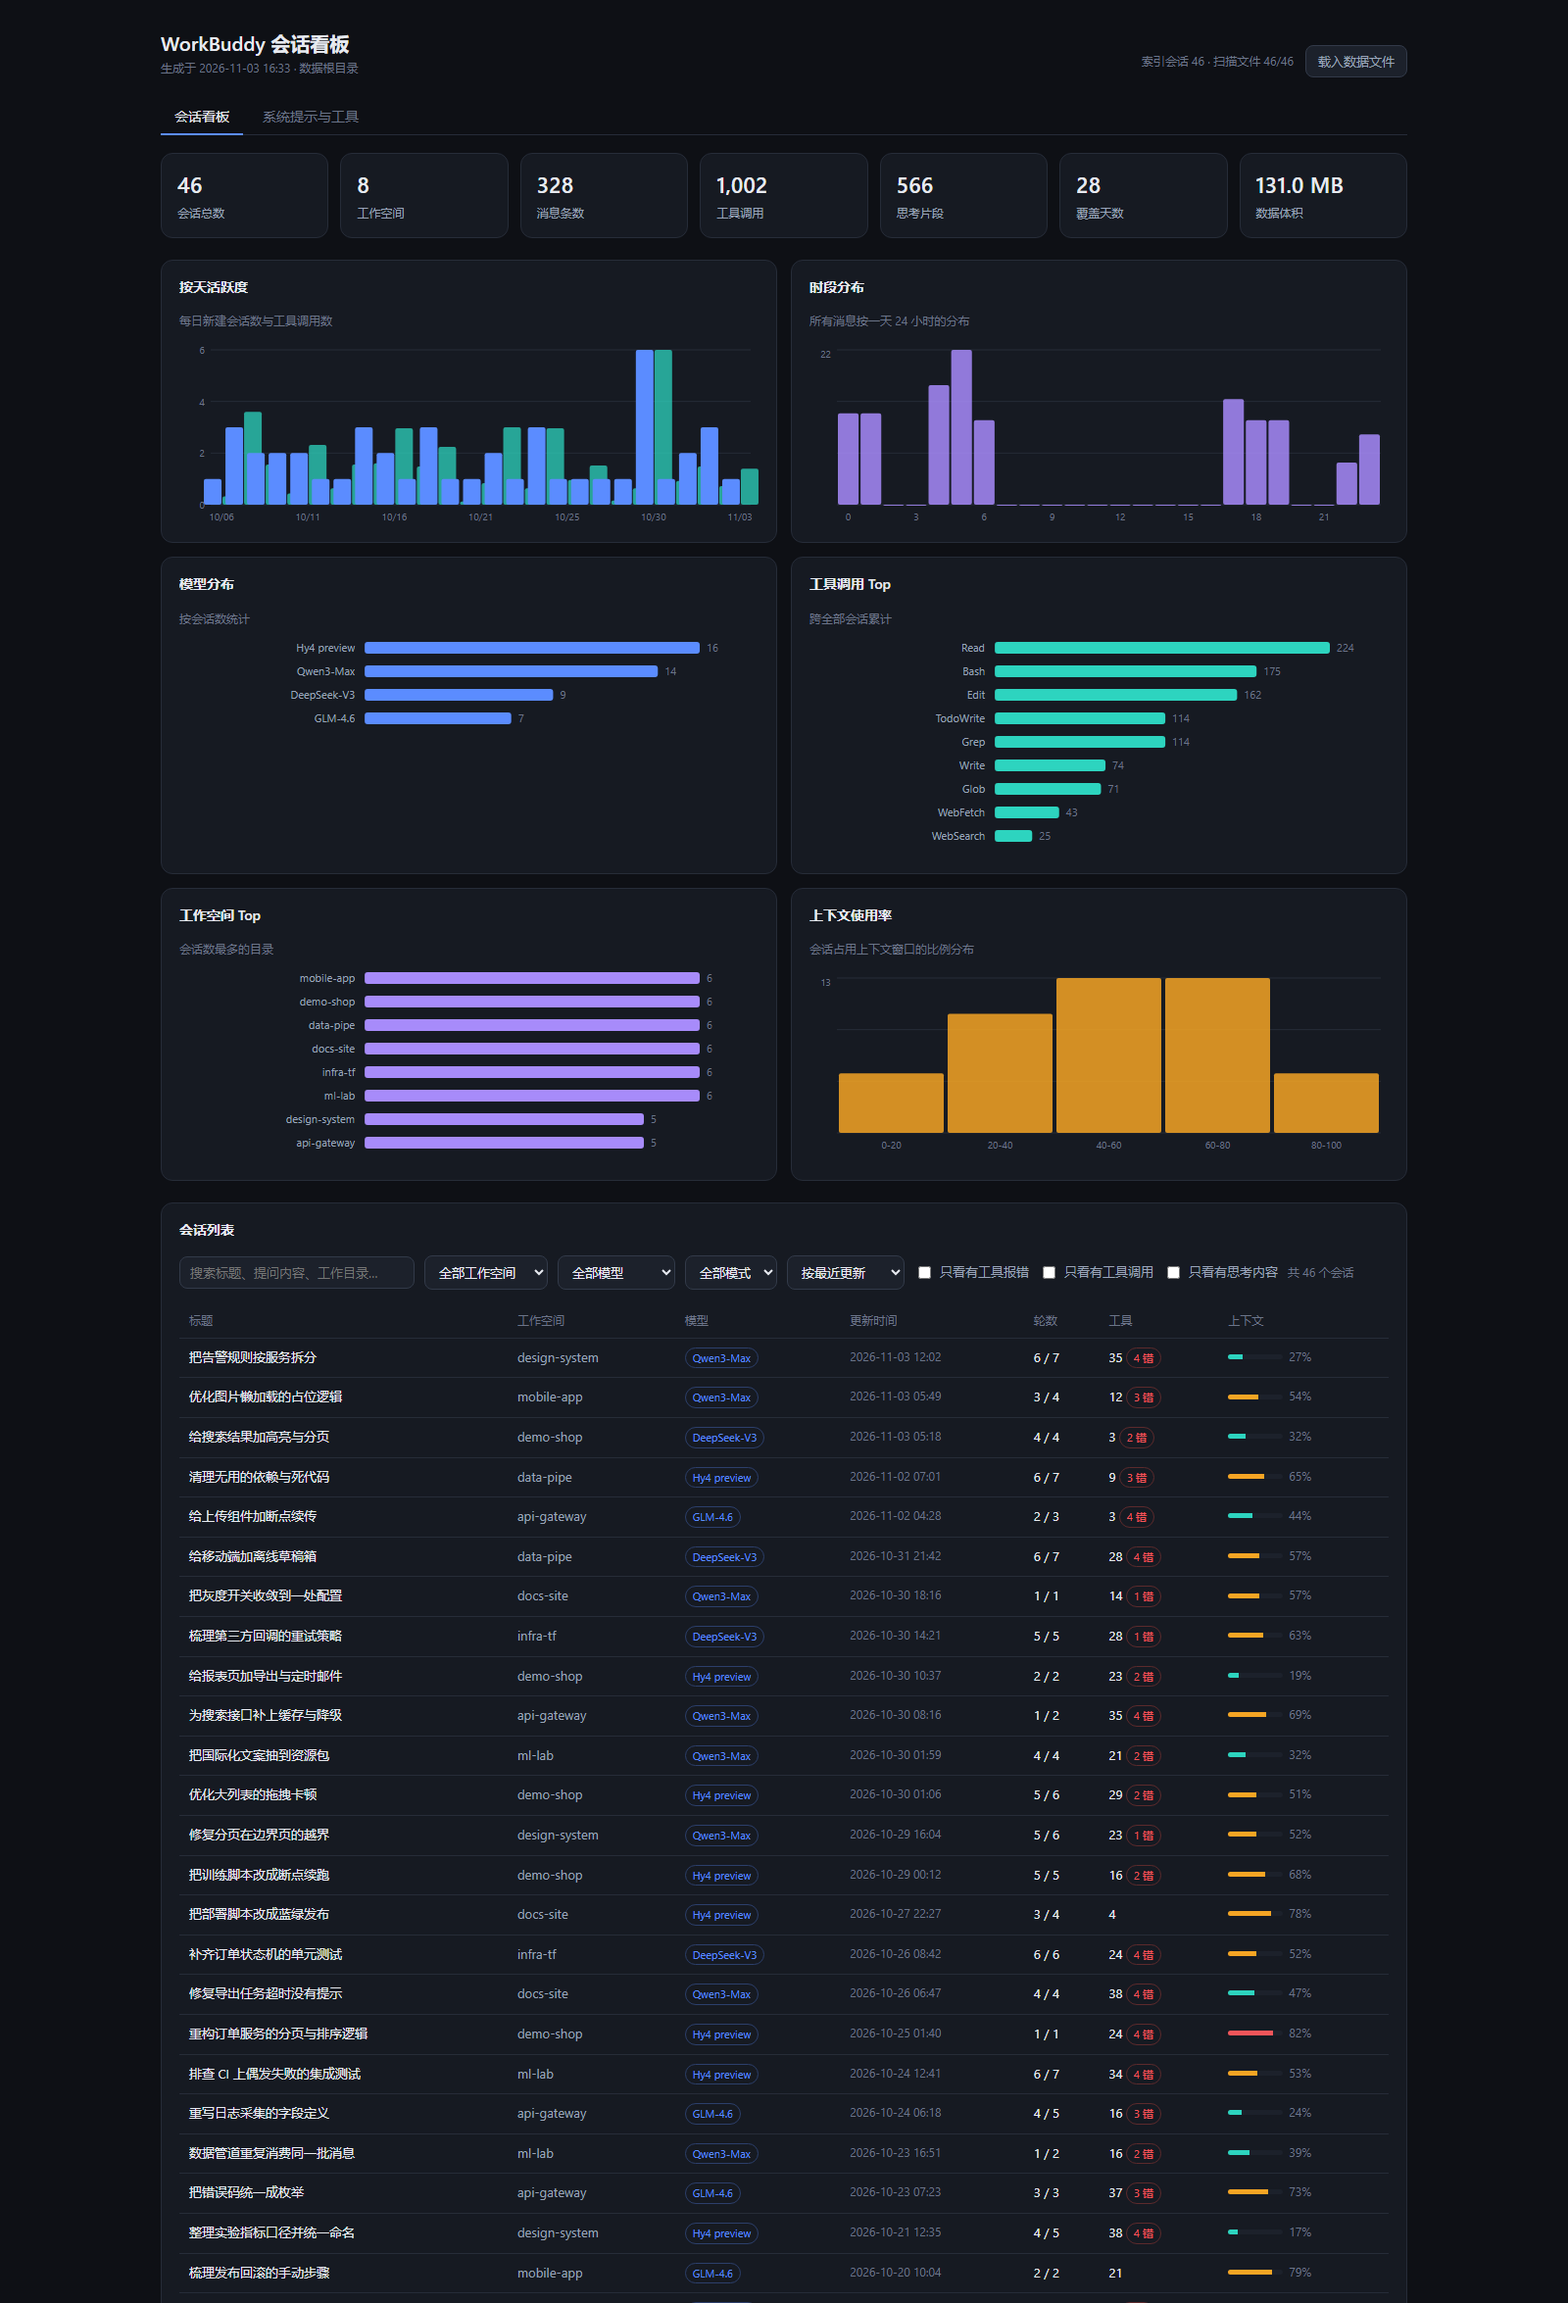
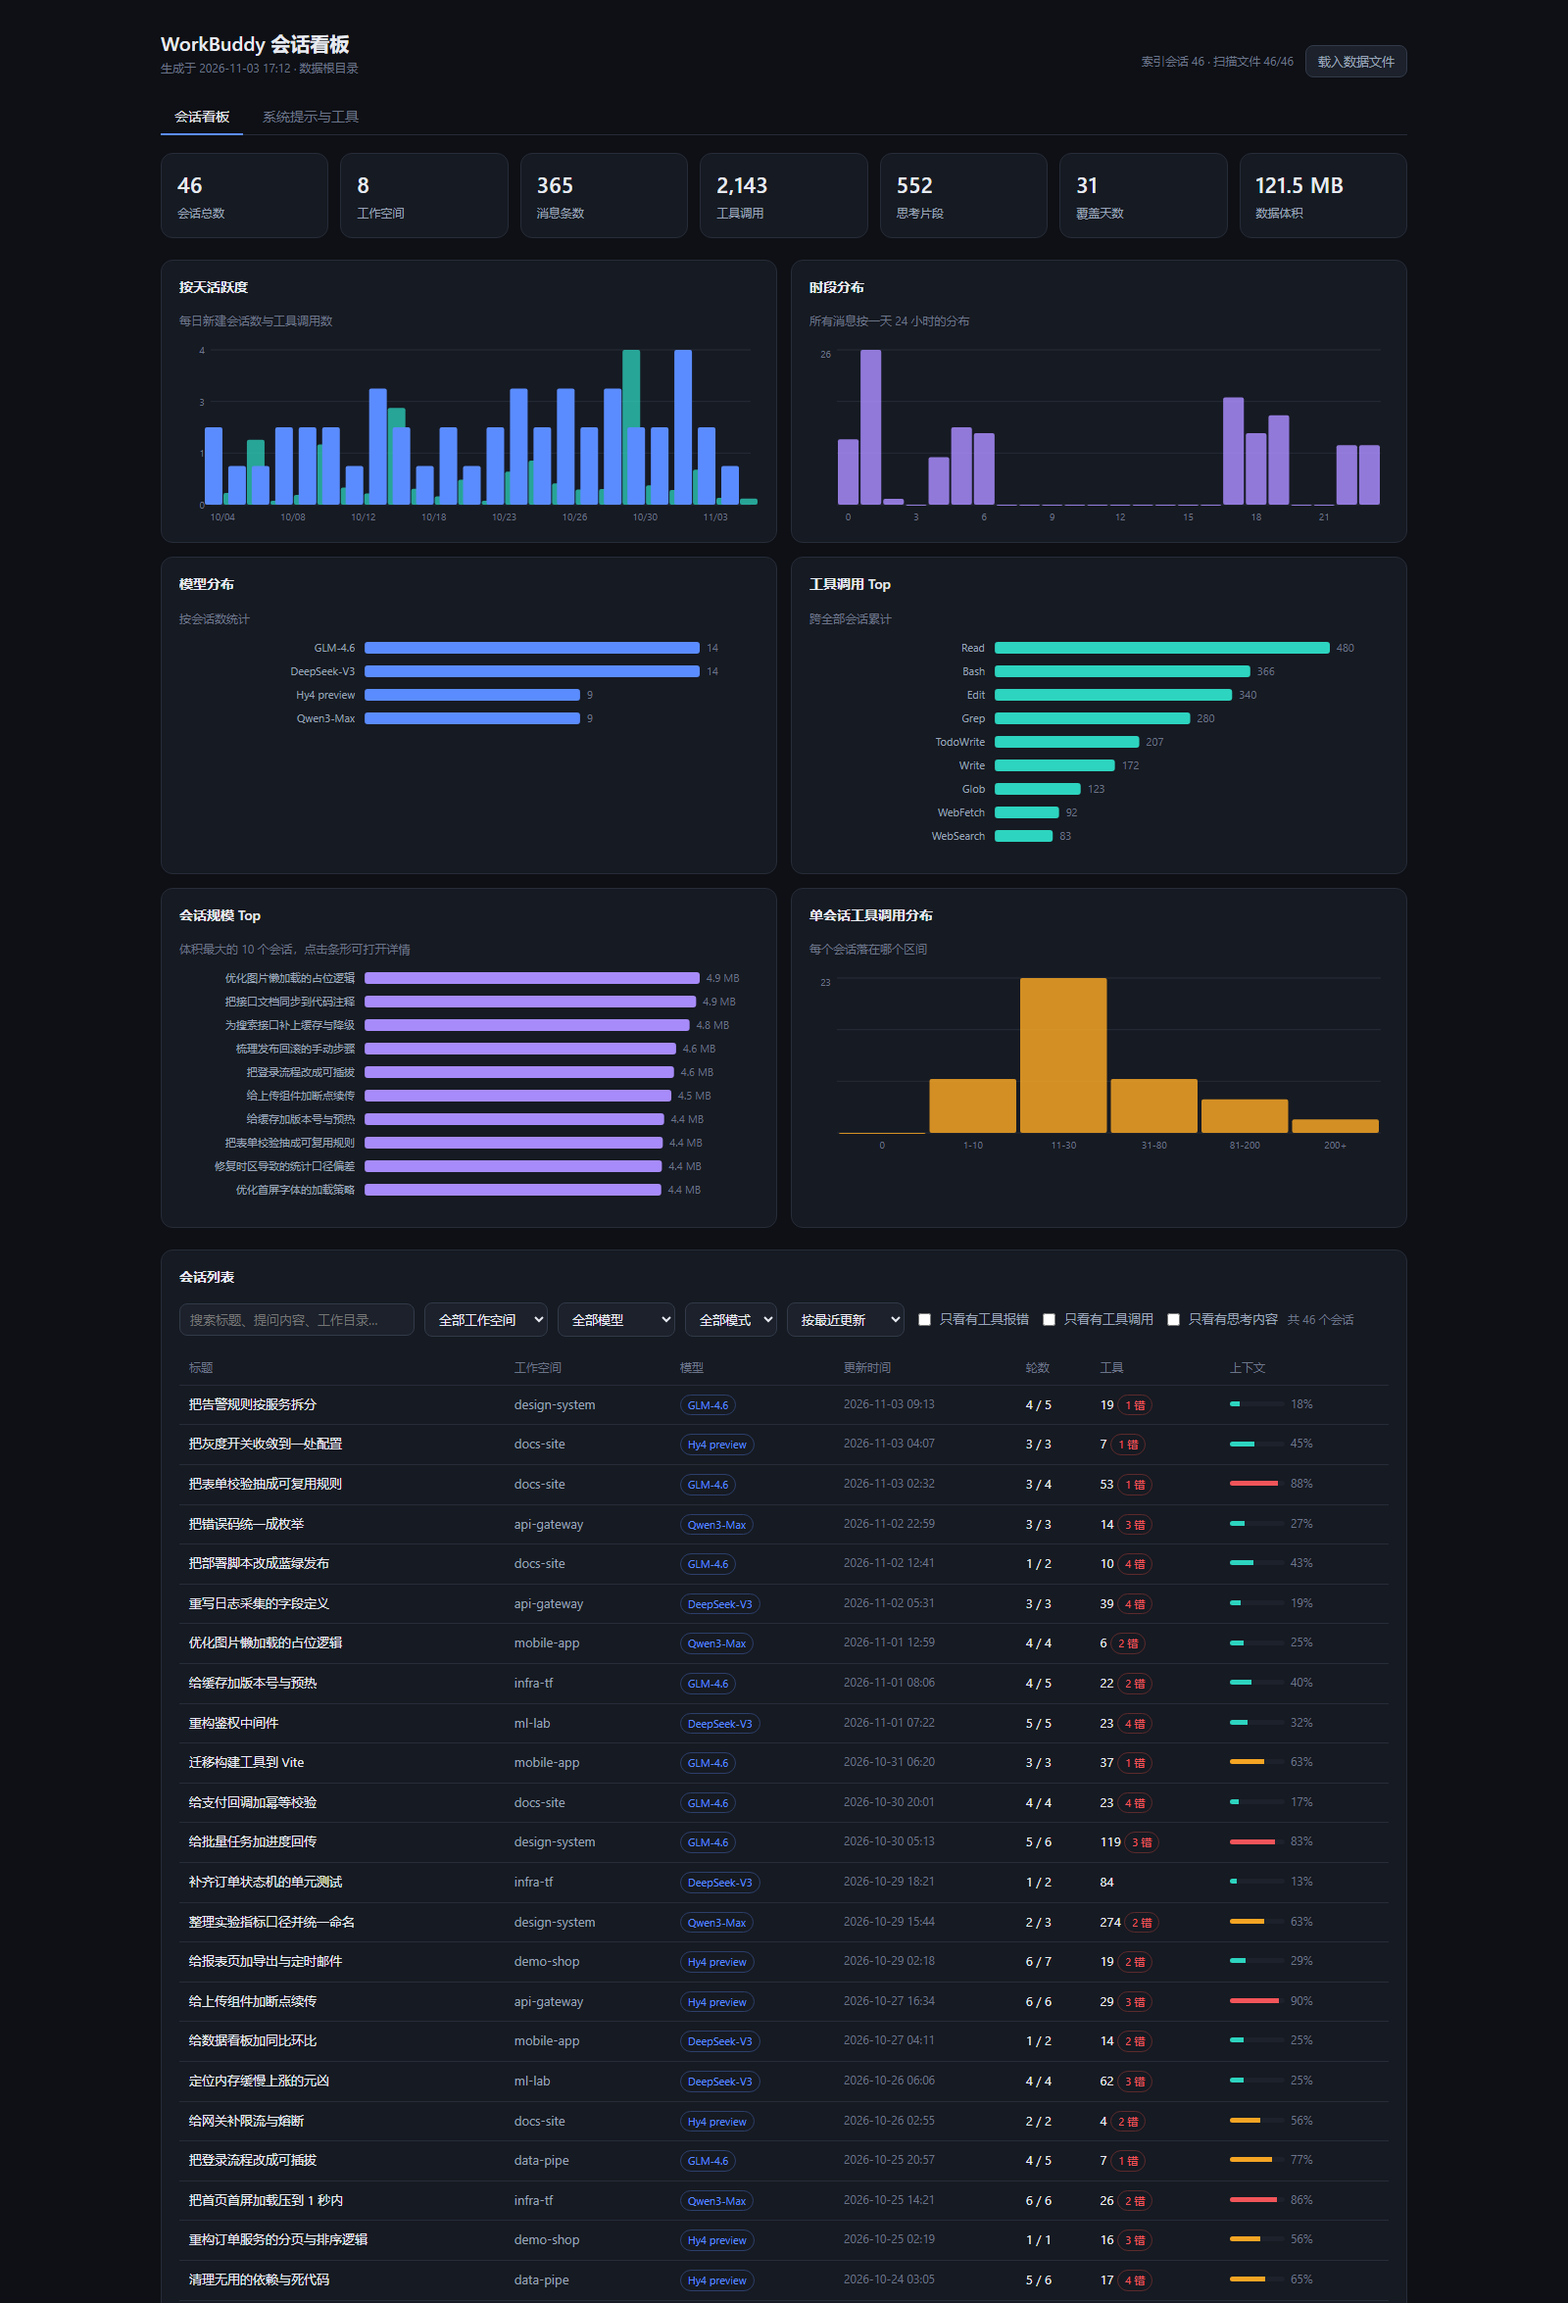
Replace the two charts that carry no information in the browser
WorkBuddy gives every session its own dated directory, so "top workspace by
session count" was ten bars tied at 1, and context usage only exists in
workbuddy.db, which this page never reads, so that panel was permanently empty.

Size ranking and per-session tool-call distribution are both computable from
the JSONL alone. The size bars also open the session they belong to, and the
footer now says which fields need the database instead of blaming an absent
chart. Screenshots regenerated from the synthetic demo data.

diff --git a/index.html b/index.html
@@ -210,14 +210,14 @@
       <div class="chart" id="c-tools"></div>
     </div>
     <div class="card">
-      <h2>工作空间 Top</h2>
-      <div class="sub">会话数最多的目录</div>
-      <div class="chart" id="c-ws"></div>
+      <h2>会话规模 Top</h2>
+      <div class="sub">体积最大的 10 个会话，点击条形可打开详情</div>
+      <div class="chart" id="c-size"></div>
     </div>
     <div class="card">
-      <h2>上下文使用率</h2>
-      <div class="sub">会话占用上下文窗口的比例分布</div>
-      <div class="chart" id="c-ctx"></div>
+      <h2>单会话工具调用分布</h2>
+      <div class="sub">每个会话落在哪个区间</div>
+      <div class="chart" id="c-toolcalls"></div>
     </div>
   </div>
 
@@ -299,7 +299,7 @@
 </aside>
 
 <script>
-const DATA = {"generatedAt":1793694489322,"root":"","deploy":true,"serve":false,"source":{"dbOk":false,"dbError":null,"indexedSessions":0,"workspaces":0,"jsonlFiles":0,"scanned":0},"sessions":[],"product":{"ok":false,"error":"部署版不含本地数据，请在页面顶部选中 ~/.workbuddy 目录","meta":{},"agents":[],"tools":[],"prompts":[],"subagents":[],"outputStyles":[],"models":[]}};
+const DATA = {"generatedAt":1793697208388,"root":"","deploy":true,"serve":false,"source":{"dbOk":false,"dbError":null,"indexedSessions":0,"workspaces":0,"jsonlFiles":0,"scanned":0},"sessions":[],"product":{"ok":false,"error":"部署版不含本地数据，请在页面顶部选中 ~/.workbuddy 目录","meta":{},"agents":[],"tools":[],"prompts":[],"subagents":[],"outputStyles":[],"models":[]}};
 let S = DATA.sessions || [];
 const $ = id => document.getElementById(id);
 const fmtTime = ms => { const d = new Date(ms); const p = n => String(n).padStart(2,'0');
@@ -395,10 +395,17 @@ function drawHBar(el, items, color, unit){
     const y = padT + i*rowH, bh = 12;
     const bwv = Math.max(2, bw*(it.value/max));
     s += '<text x="'+(labelW-10)+'" y="'+(y+bh/2+4)+'" text-anchor="end" fill="#9aa4b8" font-size="11">'+esc(String(it.label).slice(0,28))+'</text>';
-    s += '<rect x="'+labelW+'" y="'+y+'" width="'+bwv+'" height="'+bh+'" fill="'+color+'" rx="3"><title>'+esc(it.label)+': '+it.value+'</title></rect>';
-    s += '<text x="'+(labelW+bwv+7)+'" y="'+(y+bh/2+4)+'" fill="#6b7488" font-size="11">'+it.value+(unit||'')+'</text>';
+    s += '<rect x="'+labelW+'" y="'+y+'" width="'+bwv+'" height="'+bh+'" fill="'+color+'" rx="3"'
+      + (it.id ? ' data-id="'+esc(it.id)+'"' : '') + '><title>'
+      + esc(it.tip || (it.label + ': ' + it.value)) + '</title></rect>';
+    s += '<text x="'+(labelW+bwv+7)+'" y="'+(y+bh/2+4)+'" fill="#6b7488" font-size="11">'
+      + esc(it.text != null ? it.text : it.value + (unit||'')) + '</text>';
   });
   s += '</svg>'; el.innerHTML = s;
+  if(items.some(i=>i.id)) el.querySelectorAll('rect[data-id]').forEach(r=>{
+    r.style.cursor = 'pointer';
+    r.onclick = ()=>{ const id = r.getAttribute('data-id'); if(id) openDrawer(id); };
+  });
 }
 
 /* ---------- context histogram ---------- */
@@ -420,7 +427,7 @@ function drawCtx(el, buckets){
 
 /* ---------- aggregate (recomputed whenever the session set changes) ---------- */
 const topArr = obj => Object.entries(obj).sort((a,b)=>b[1]-a[1]).slice(0,10).map(([label,value])=>({label,value}));
-let days = [], hours = [], modelCount = {}, toolCount = {}, wsCount = {}, ctxBuckets = [], ctxKnown = 0;
+let days = [], hours = [], modelCount = {}, toolCount = {}, wsCount = {}, sizeTop = [], toolBuckets = [];
 function compute(){
   const dayMap = new Map();
   S.forEach(s=>{
@@ -440,14 +447,26 @@ function compute(){
     (s.tools||[]).forEach(([n,c])=>{ toolCount[n]=(toolCount[n]||0)+c; });
   });
 
-  ctxBuckets = ['0-20','20-40','40-60','60-80','80-100'].map(label=>({label,value:0}));
-  ctxKnown = 0;
+  // WorkBuddy gives every session its own dated directory, so "top workspace"
+  // degenerates into a wall of ties at 1; the size ranking says far more, and
+  // the bars double as a way into the session itself
+  sizeTop = S.slice().sort((a,b)=>(b.bytes||0)-(a.bytes||0)).slice(0,10).map(s=>({
+    label: s.title || s.id.slice(0, 8),
+    value: s.bytes || 0,
+    text: fmtBytes(s.bytes || 0),
+    id: s.id,
+    tip: (s.title || '(无标题)') + ' · ' + fmtBytes(s.bytes || 0) + ' · ' + (s.lines || 0)
+      + ' 行 · ' + (s.toolCalls || 0) + ' 次工具调用',
+  }));
+
+  // context usage lives in workbuddy.db, which the browser never reads, so the
+  // old breakdown was empty here; tool calls per session is always computable
+  const tb = [['0',0],['1-10',0],['11-30',0],['31-80',0],['81-200',0],['200+',0]];
   S.forEach(s=>{
-    if(s.ctxUsed==null||!s.ctxSize) return;
-    ctxKnown++;
-    const p = Math.min(99, Math.round(s.ctxUsed/s.ctxSize*100));
-    ctxBuckets[Math.min(4, Math.floor(p/20))].value++;
+    const n = s.toolCalls || 0;
+    tb[n === 0 ? 0 : n <= 10 ? 1 : n <= 30 ? 2 : n <= 80 ? 3 : n <= 200 ? 4 : 5][1]++;
   });
+  toolBuckets = tb.map(([label, value])=>({label, value}));
 }
 
 /* ---------- KPI ---------- */
@@ -474,8 +493,9 @@ function renderMeta(){
     : (S.length ? ('已载入 '+S.length+' 个会话') : '尚未载入数据'))
     + (src.dbOk || src.browser || DATA.deploy ? '' : ' · <span style="color:'+C.amber+'">会话索引不可用：'+esc(src.dbError)+'</span>');
   $('foot').textContent = '只读分析，未修改任何 WorkBuddy 数据。'
-    + (ctxKnown ? ('上下文使用率仅覆盖有用量记录的 '+ctxKnown+' 个会话。')
-       : '上下文使用率需要 workbuddy.db，浏览器模式不读取数据库。');
+    + (DATA.deploy || (src && src.browser)
+      ? ' 浏览器模式不读取 workbuddy.db，会话状态、上下文窗口等只存在于数据库的字段显示为「—」。'
+      : '');
 }
 
 /* ---------- charts ---------- */
@@ -484,8 +504,8 @@ function renderCharts(){
   drawHours($('c-hours'), hours);
   drawHBar($('c-models'), topArr(modelCount), C.blue);
   drawHBar($('c-tools'), topArr(toolCount), C.teal);
-  drawHBar($('c-ws'), topArr(wsCount), C.violet);
-  drawCtx($('c-ctx'), ctxBuckets);
+  drawHBar($('c-size'), sizeTop, C.violet);
+  drawCtx($('c-toolcalls'), toolBuckets);
 }
 
 /* ---------- filters ---------- */

diff --git a/README.md b/README.md
@@ -36,9 +36,12 @@ File API 完成，刷新页面即回到无数据状态。
 
 ## 页面能看到什么
 
-会话列表与筛选、按天活跃度、时段分布、模型/工具/工作空间统计、上下文占用、
+会话列表与筛选、按天活跃度、时段分布、模型分布、工具调用 Top、会话规模 Top
+（体积最大的会话，点条形可直接打开详情）、单会话工具调用分布，
 每个会话的完整事件流（直接渲染原始 JSON 记录，不做字段提取），
 以及「系统提示与工具」标签页里的 agent 指令、工具说明与全部提示模板。
+
+> 「会话状态」「上下文占用」这类字段只存在于 `workbuddy.db`，浏览器模式不读数据库，因此显示为「—」。
 
 > 下面三张截图用的是**完全虚构的演示数据**（会话标题、工作目录、消息、工具调用全部是编的，
 > 路径形如 `C:/Users/demo/Projects/...`），只用来展示版面，不含任何真实会话内容。
